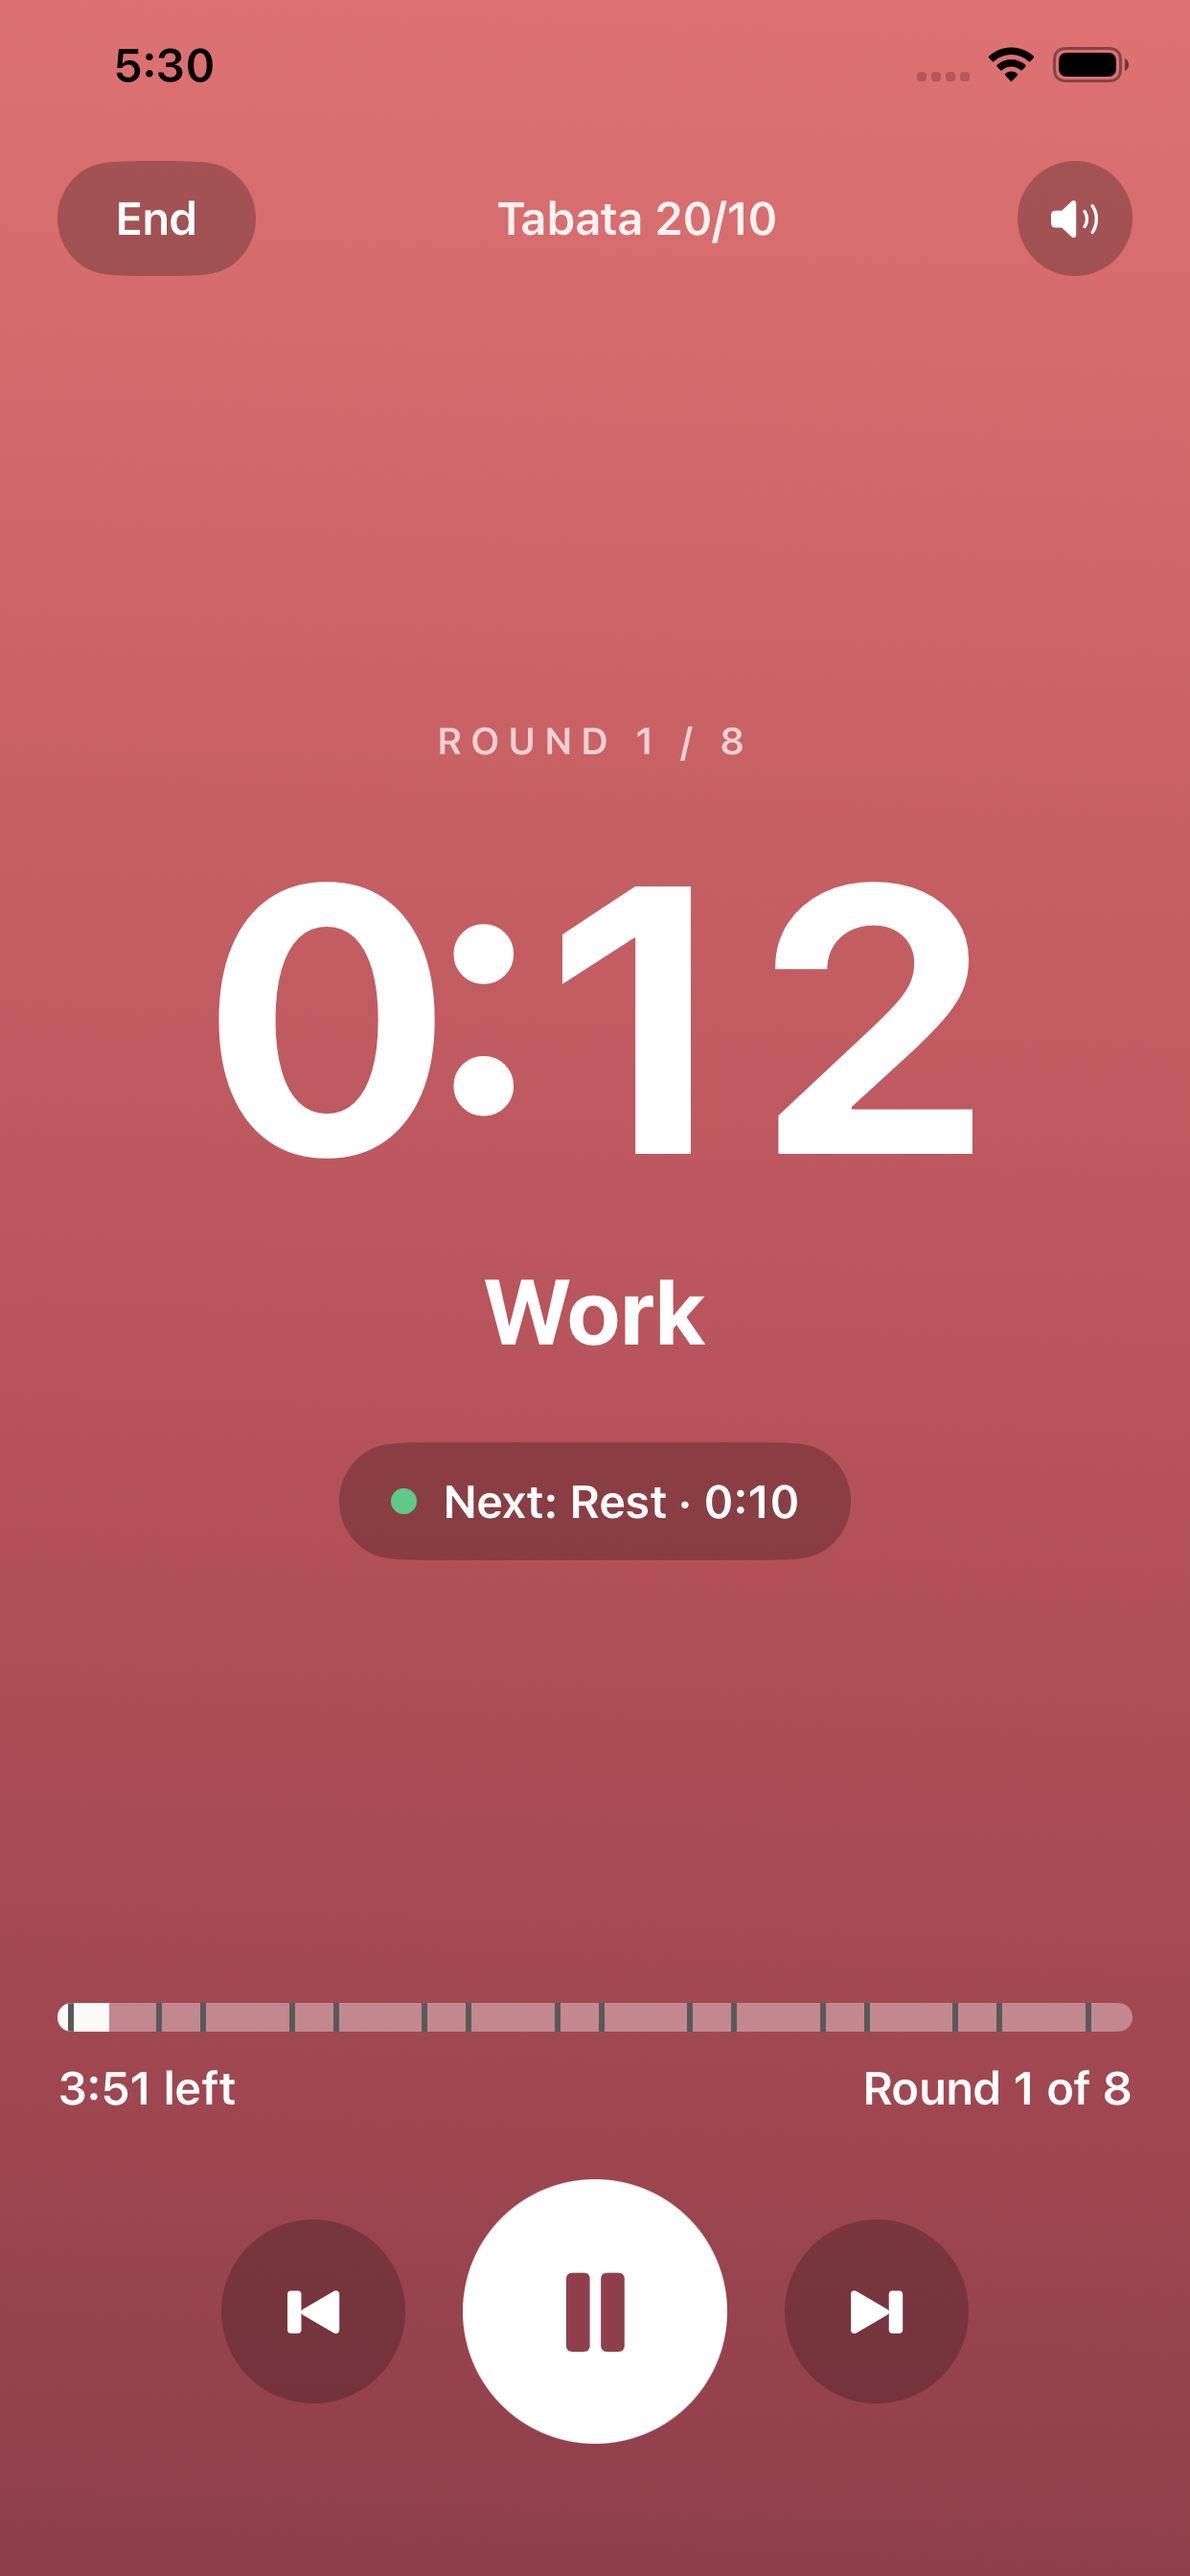
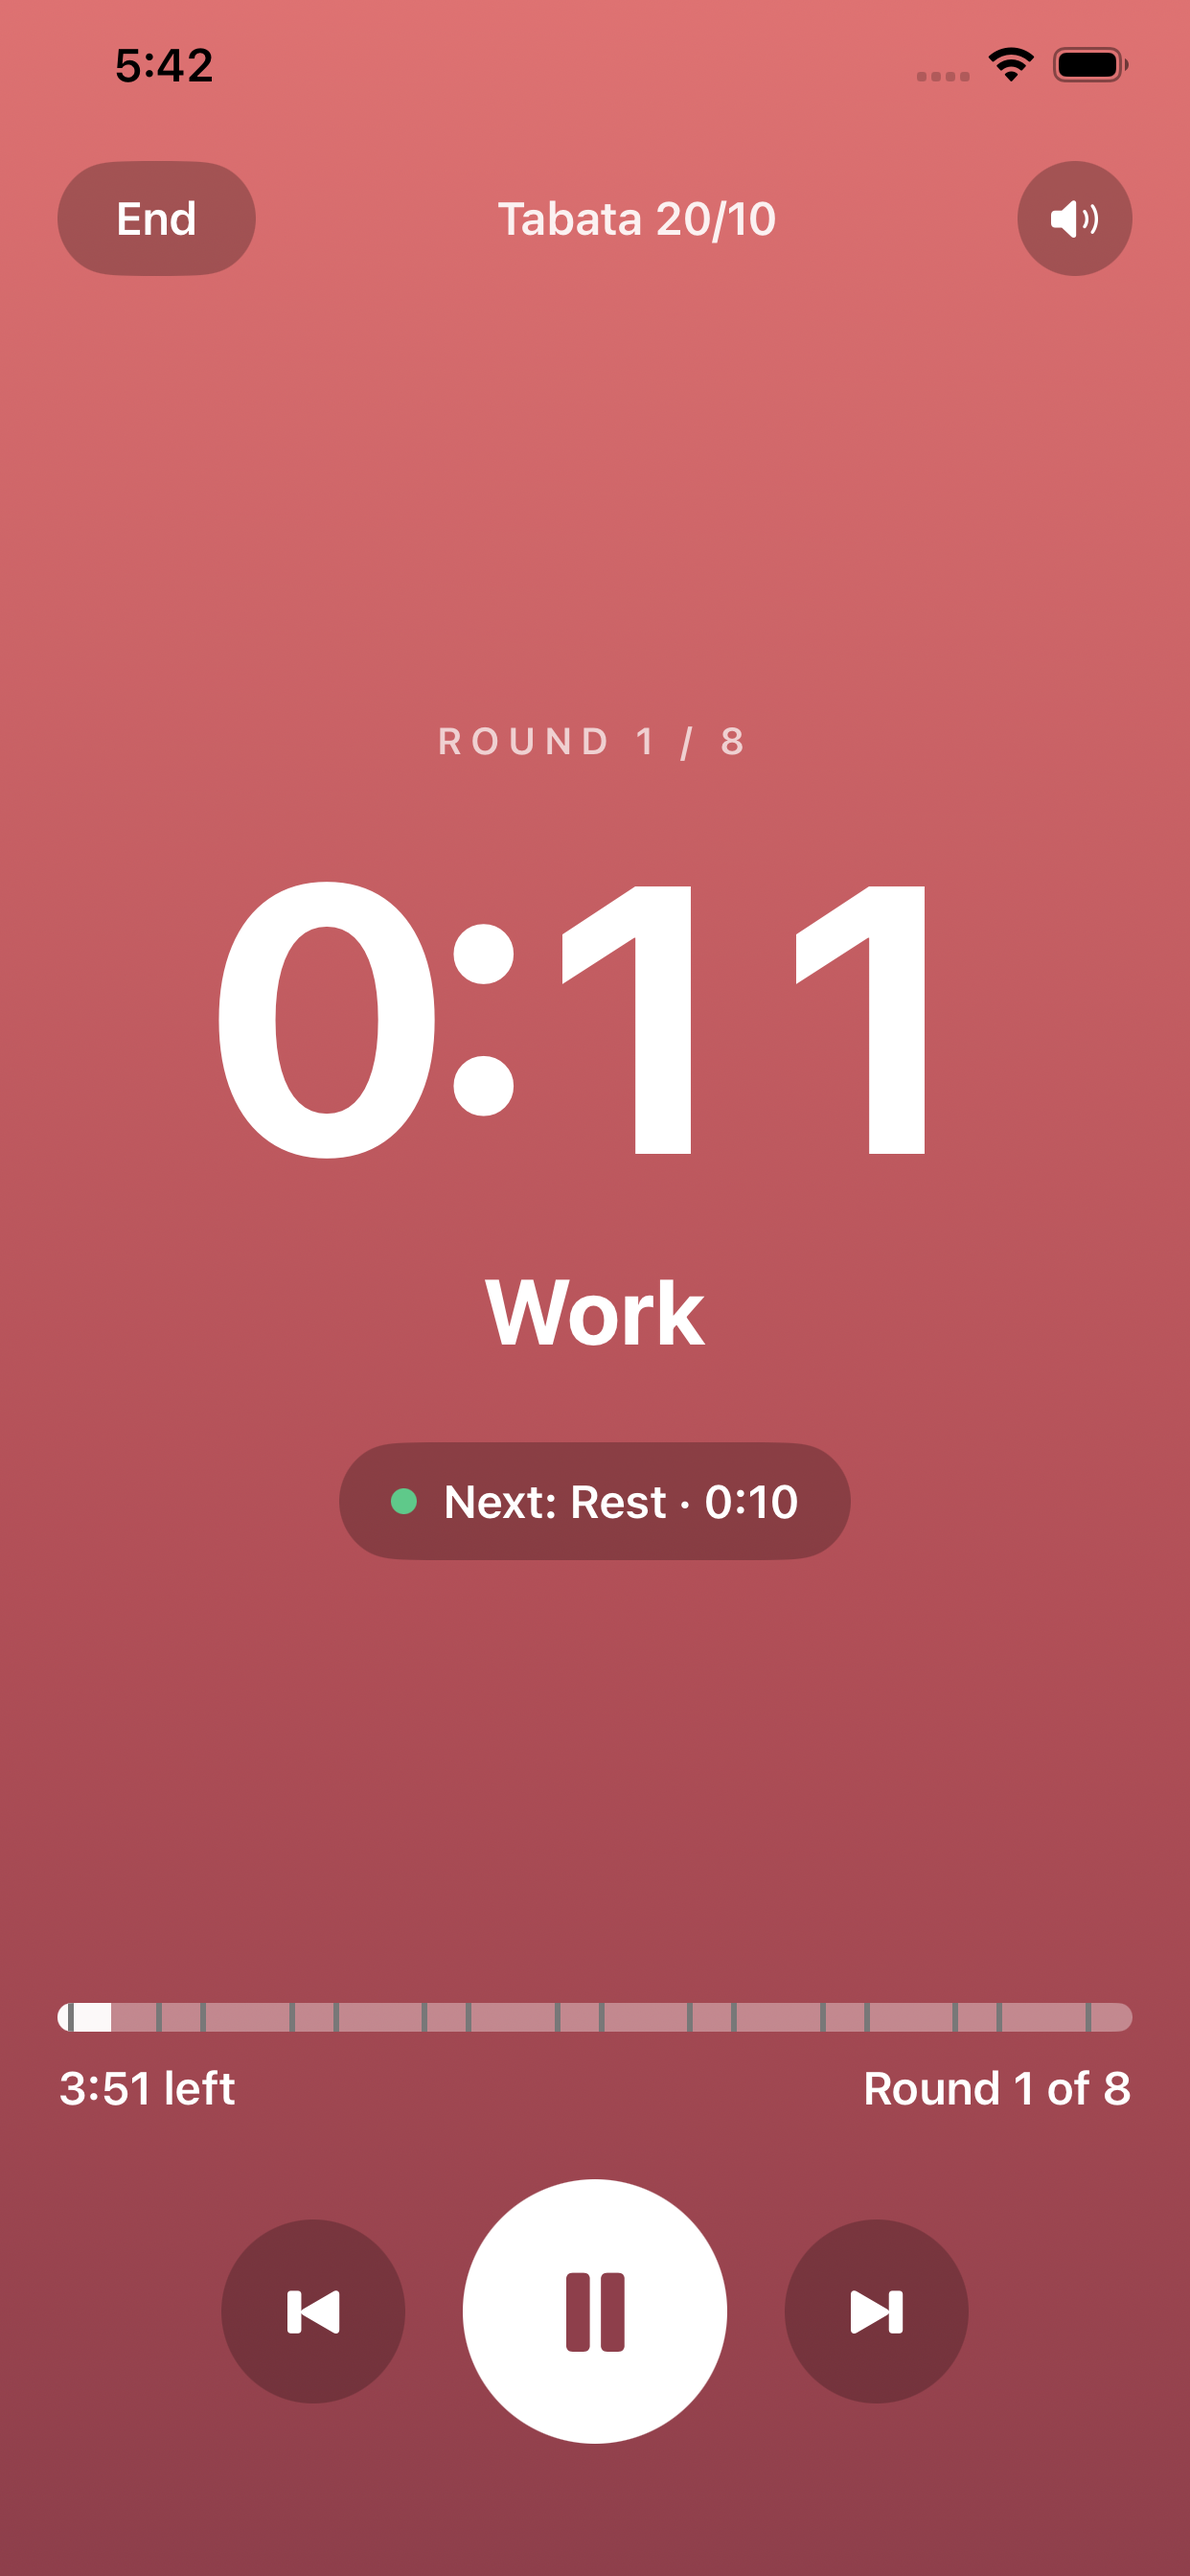
style(run): halve the flood dividers' weight
#595959 → #787878, which puts a divider 0.114 below the washed-out track in
luminance instead of 0.236 — half the difference from the bar around it.
The test floor drops to 1.15:1 to match; a divider that isn't drawn at all
still measures exactly 1.0, which is what those assertions guard.

Build 16; flood screenshot recaptured.

Changed region(s): [[0.6425, 0.3438, 0.8261, 0.4688], [0.1224, 0.0, 0.1836, 0.0312]]

diff --git a/IntervalTimerTests/SegmentBarTests.swift b/IntervalTimerTests/SegmentBarTests.swift
@@ -40,9 +40,9 @@ final class SegmentBarTests: XCTestCase {
     }
 
     /// Flood draws every slice in the same white over the interval ground, so its
-    /// dividers are the only division there. They're a mid grey rather than near
-    /// black, so the floor is lower than it was — but a divider still has to carry
-    /// clear of the washed-out track it sits on.
+    /// dividers are the only division there. They're deliberately a light grey, so
+    /// the floor here is low — but a divider that stops being drawn reads as exactly
+    /// 1.0, and that is what this guards.
     @MainActor
     func testFloodDividersContrastAgainstTheTrack() throws {
         // 4 equal segments across 800pt, abutting → boundaries at 200/400/600.
@@ -53,8 +53,8 @@ final class SegmentBarTests: XCTestCase {
         let divider = try luminance(cg, x: 600, y: 20)
         let track = try luminance(cg, x: 500, y: 20)
         let lit = try luminance(cg, x: 250, y: 20)
-        XCTAssertGreaterThan(contrast(track, divider), 1.5,
-                             "dividers must read clearly darker than the washed-out track")
+        XCTAssertGreaterThan(contrast(track, divider), 1.15,
+                             "dividers must stay distinguishable from the washed-out track")
         XCTAssertGreaterThan(contrast(lit, track), 1.5,
                              "the lit part must still read brighter than the track")
     }
@@ -76,11 +76,11 @@ final class SegmentBarTests: XCTestCase {
         let cg = try renderFlood(segments: tabata, index: 1, elapsedFraction: 0.5,
                                  width: 353, height: 10)
 
-        XCTAssertGreaterThan(contrast(try luminance(cg, x: 2, y: 5), try luminance(cg, x: 4, y: 5)), 1.5,
+        XCTAssertGreaterThan(contrast(try luminance(cg, x: 2, y: 5), try luminance(cg, x: 4, y: 5)), 1.15,
                              "the pre-roll divider must still be drawn at phone width")
-        XCTAssertGreaterThan(contrast(try luminance(cg, x: 8, y: 5), try luminance(cg, x: 4, y: 5)), 1.5,
+        XCTAssertGreaterThan(contrast(try luminance(cg, x: 8, y: 5), try luminance(cg, x: 4, y: 5)), 1.15,
                              "…and read against the slice after it")
-        XCTAssertGreaterThan(contrast(try luminance(cg, x: 29, y: 5), try luminance(cg, x: 33, y: 5)), 1.5,
+        XCTAssertGreaterThan(contrast(try luminance(cg, x: 29, y: 5), try luminance(cg, x: 33, y: 5)), 1.15,
                              "the work/rest divider reads against the washed-out track too")
     }
 

diff --git a/IntervalTimer/Components/SegmentBar.swift b/IntervalTimer/Components/SegmentBar.swift
@@ -58,7 +58,7 @@ struct SegmentBar: View {
             if median >= 2 * dividerWidth {
                 ForEach(Array(widths.dropLast().indices), id: \.self) { i in
                     Rectangle()
-                        .fill(Color(white: 0.35))
+                        .fill(Color(white: 0.47))
                         .frame(width: dividerWidth)
                         .offset(x: widths[0...i].reduce(0, +) - dividerWidth / 2)
                 }

diff --git a/docs/app-store-connect-info.md b/docs/app-store-connect-info.md
@@ -14,7 +14,7 @@ Everything needed to fill out the App Store Connect listing for Interval Pulse T
 | Secondary Category | Sports (optional) |
 | Team / Apple Developer | DZRPJF9JB6 |
 | Version (Marketing) | 1.7 |
-| Build number | 15 |
+| Build number | 16 |
 | Price | Free (or your choice) |
 | Copyright | © 2026 Norman Hoang |
 
